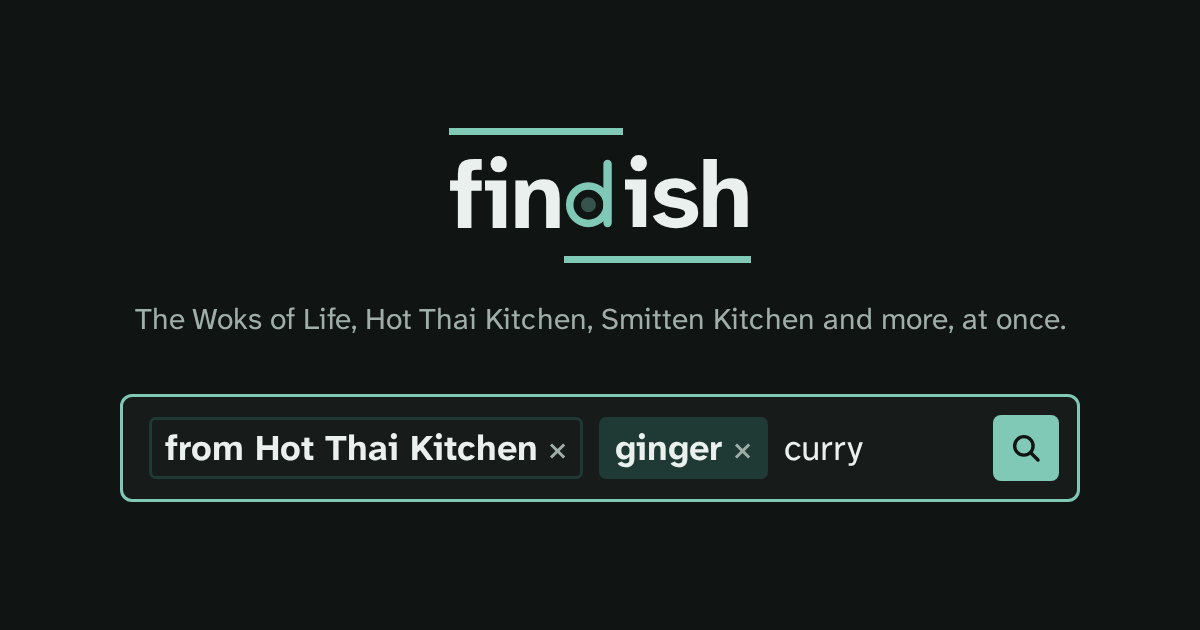
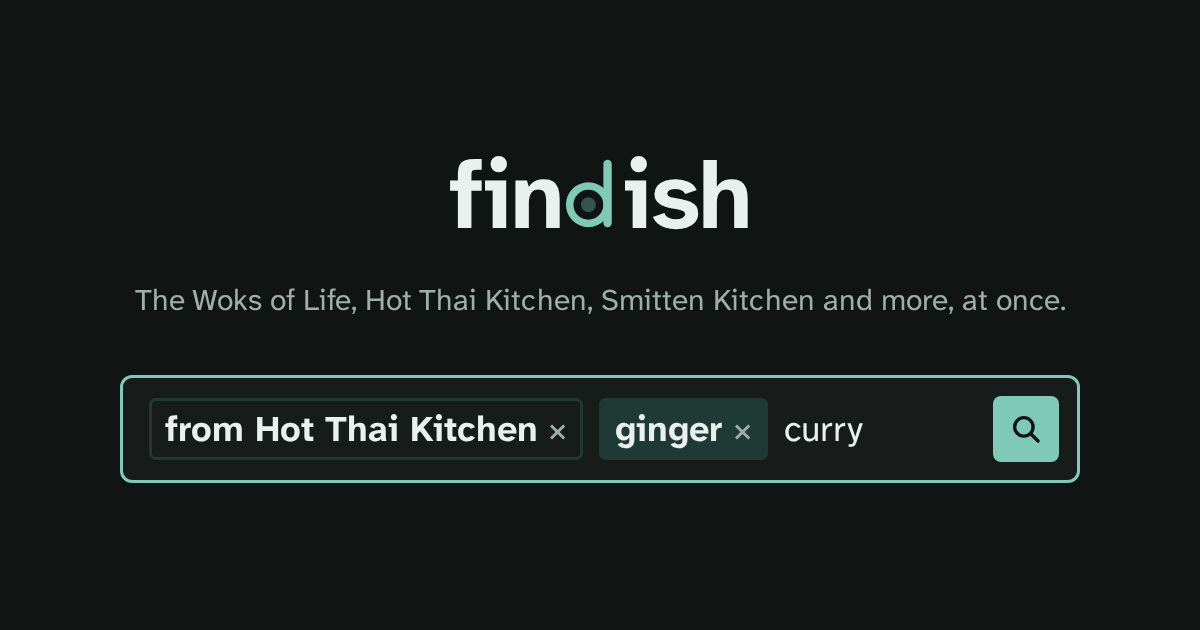
On phones the search box sits near the middle of the screen, and the wordmark drops its bars
Claude-Session: https://claude.ai/code/session_015KDcQFtADrKHdsxcZtkYS5

diff --git a/design/og.html b/design/og.html
@@ -8,10 +8,8 @@ html,body{margin:0}
 body{width:1200px;height:630px;background:#101413;color:#e9f0ee;font-family:A;overflow:hidden;box-sizing:border-box;padding:64px 96px;display:flex;flex-direction:column;align-items:center;justify-content:center;text-align:center}
 .name{font-size:96px;font-weight:700;letter-spacing:-0.03em;line-height:1;margin:0}
 .name{display:inline-flex;align-items:stretch;letter-spacing:-0.02em}
-.fin{border-top:0.08em solid #7fc9b6;padding:0.13em 0 0.2em}
-.d{display:flex;align-items:flex-end;border-top:0.08em solid #7fc9b6;border-bottom:0.08em solid #7fc9b6;padding:0.13em 0.02em}
+.d{display:flex;align-items:flex-end;padding:0 0.02em}
 .d svg{display:block;width:0.585em;height:0.74em;margin-bottom:0.15em;color:#7fc9b6}
-.ish{border-bottom:0.08em solid #7fc9b6;padding:0.2em 0 0.13em}
 .from{font-size:30px;color:#a0aeaa;margin:36px 0 0}
 .box{margin-top:56px;width:960px;box-sizing:border-box;display:flex;align-items:center;gap:16px;padding:18px 18px 18px 26px;border:3px solid #7fc9b6;border-radius:12px;background:#171c1b;font-size:36px;text-align:left}
 .tag{font-weight:700;background:#1f3a34;border-radius:7px;padding:8px 16px}

diff --git a/AGENTS.md b/AGENTS.md
@@ -248,7 +248,7 @@ Findish (findish.now; called Recipe search until 2026-11-16, when it moved off k
 - Analytics go to Findish's own Amplitude project, "Findish" (910064), since 2026-11-16, only on findish.now. The key is in `src/lib/site.ts`; `scripts/popularity.mjs` reads the same project with the Actions secrets `AMPLITUDE_API_KEY` and `AMPLITUDE_SECRET_KEY`. Custom events no longer carry `experiment` (that's only for projects sharing kylepace.dev's). Events from before the move stay in the kylepace.dev project (902556) under `experiment: "recipe-search"`.
 - The crawler is FindishBot (renamed from RecipeSearchBot on 2026-11-16, Kyle's call; no indexed site's robots.txt named the old one). Its user agent links to findish.now/about/. `robotsForNames` in `crawler/lib/robots.mjs` applies the rules for every name it has gone by (`OLD_NAMES` in `crawler/crawl.mjs`): a path must be allowed for all of them and the longest Crawl-delay wins, so a block on the old name still holds. Keep old names in that list. Its look is its own: `src/styles/theme.css` overrides the tokens.
 - Photos load straight from each recipe's own site (Kyle's call, 2026-11-08), with no referrer and lazily. A photo five or more recipes share is a site's stand-in ("Photo to come"), so `build-index.mjs` drops it and those recipes show without one. Their hosts are in `.agents/allowed-hosts.txt`. A site that blocks it or asks us to stop gets text-only cards: set `crawl.photos: false` on it in KitchenCatalog's `recipe-sources/sources.json`, then `npm run sync-catalog`.
-- The wordmark ("fin", a plate-shaped d, "ish", with a nori bar over "fin" and the d and another under the d and "ish") is `src/components/Wordmark.astro`, used in the home page's name and in `src/components/SiteHead.astro`, the link home at the top of every other page. The plate d alone is the favicon, `public/favicon-v2.svg`, which every page passes to `LabLayout` as `favicon`; if it changes again, give it a new name. Don't put an `aria-label` on links around the wordmark: the visible letters read "finish", so a label like "Findish, back to the search" fails axe. See `design/PLAN.md`.
+- The wordmark ("fin", a plate-shaped d in nori green, "ish"; the bars over and under came off the same day, Kyle's call) is `src/components/Wordmark.astro`, used in the home page's name and in `src/components/SiteHead.astro`, the link home at the top of every other page. The plate d alone is the favicon, `public/favicon-v2.svg`, which every page passes to `LabLayout` as `favicon`; if it changes again, give it a new name. Don't put an `aria-label` on links around the wordmark: the visible letters read "finish", so a label like "Findish, back to the search" fails axe. See `design/PLAN.md`.
 - The share cards are `design/og.html`, `og-about.html`, `og-assistants.html` and `og-privacy.html`, rendered to the matching PNGs in `public/`.
 - Run `npm run build` before pushing; it must pass.
 

diff --git a/design/PLAN.md b/design/PLAN.md
@@ -19,7 +19,7 @@ The other two directions considered: a cookbook-index list (one column, time on 
 
 ## The wordmark (November 16, 2026)
 
-Findish is "fin", a plate-shaped d, "ish", in Atkinson bold. A nori bar runs over "fin" and the d, another under the d and "ish", so the d (a plate seen from above, with its stem) is where find and dish meet. Kyle picked it on November 16 from mocks that combined two earlier ideas, the bars and the plate d; it replaced the curve under "dish". It's text, CSS borders and one small inline SVG for the d (`src/components/Wordmark.astro`), so it scales and follows light and dark; screen readers hear "Findish" from hidden text and skip the drawing. It's the big name on the home page, the small link home in results, and a link home at the top of every other page (`src/components/SiteHead.astro`, since there's no top bar). The plate d on its own is the favicon (`public/favicon-v2.svg`, renamed so search engines refetch it; every page passes it to `LabLayout`), and the home share card (`design/og.html`) uses the full mark.
+Findish is "fin", a plate-shaped d in nori green, "ish", in Atkinson bold. The d (a plate seen from above, with its stem) is where find and dish meet. Kyle picked the plate d on November 16 from mocks that combined two earlier ideas, bars over and under the name and the plate d; it replaced the curve under "dish", and he had the bars taken off the same day because they boxed the name in. It's text and one small inline SVG for the d (`src/components/Wordmark.astro`), so it scales and follows light and dark; screen readers hear "Findish" from hidden text and skip the drawing. It's the big name on the home page, the small link home in results, and a link home at the top of every other page (`src/components/SiteHead.astro`, since there's no top bar). The plate d on its own is the favicon (`public/favicon-v2.svg`, renamed so search engines refetch it; every page passes it to `LabLayout`), and the home share card (`design/og.html`) uses the full mark.
 
 ## The subject
 
@@ -75,3 +75,8 @@ Atkinson Hyperlegible Next only. The name is the one large thing on the home pag
 ## Still true from before
 
 Results are rows (photo left), one column on phones, two on wide screens. Meta lines are plain sentences ("25 minutes, Chinese, from The Woks of Life"), never middle dots. No pills, eyebrows or badges.
+
+
+## The home page on a phone (November 16, 2026)
+
+On a phone the ideas under the box make the column taller than the screen, so centering does nothing. Under 40rem the home page starts the name a sixth of the way down (`16svh`), so the box lands near the middle, within thumb reach, and the ideas follow below.
